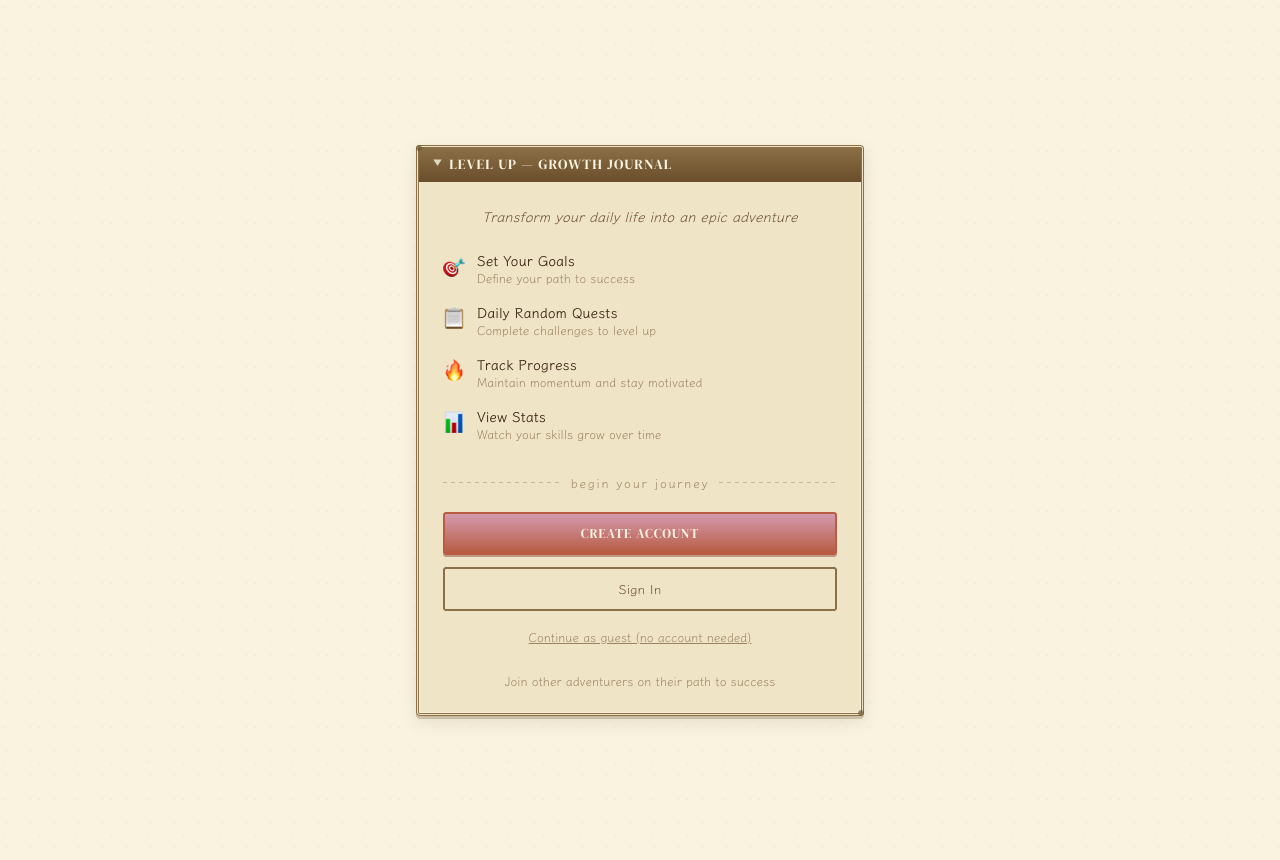
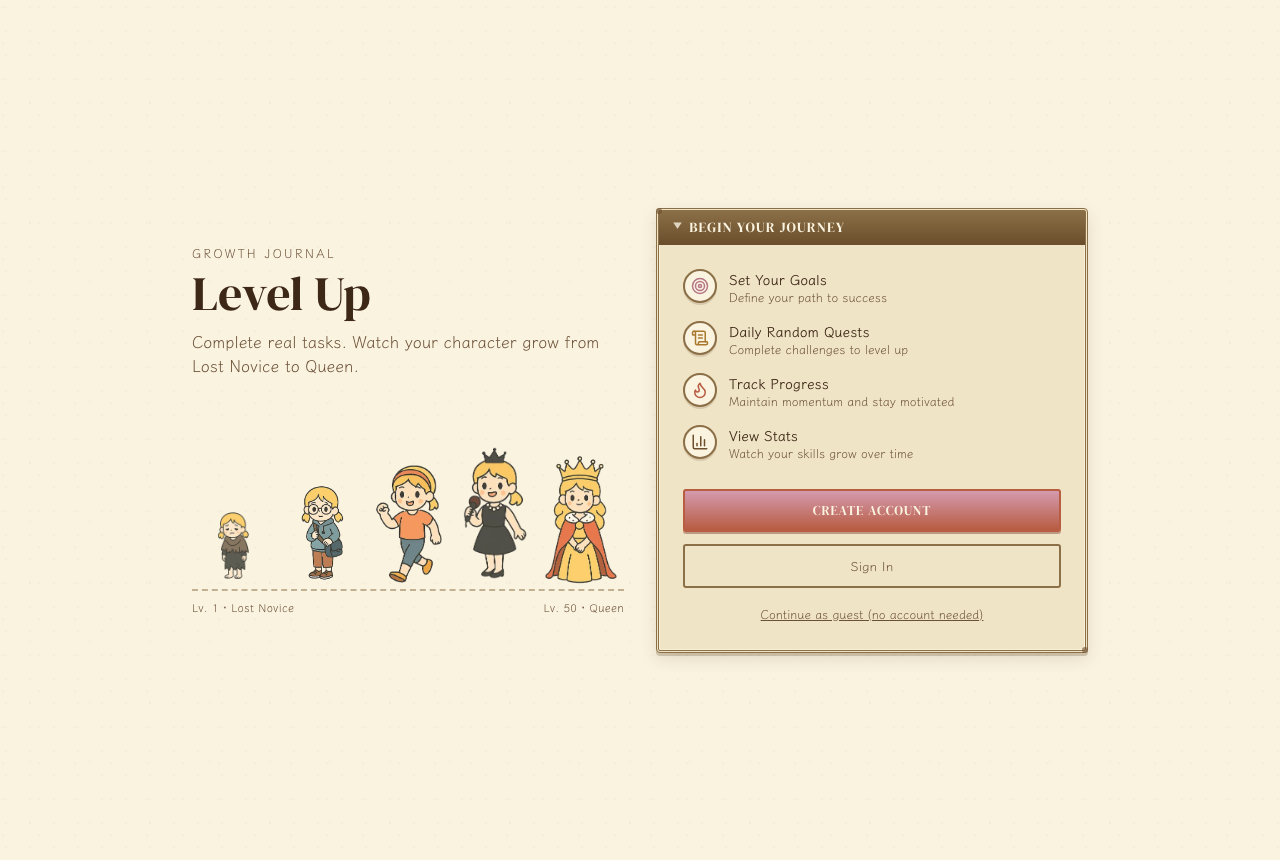
feat: show the character's growth on the welcome page (#15)
The welcome page was a small card of emoji and feature bullets on an empty
background, and gave a visitor no sense of the game before signing up. It
now leads with the five avatar stages side by side, from Lost Novice to
Queen: the character growing as real tasks get done is the premise of the
app, so it is the first thing a visitor sees.

- Two columns from md up; stacked on phones.
- Emoji are replaced with lucide icons in a parchment seal. The seal's ring
  uses --frame, because the accent colours fall under 3:1 against the card.
- The figures load small WebP copies, about 70 KB for all five, instead of
  the PNGs at 370-610 KB each.
- The progression is a figure labelled by its caption. Screen readers hear
  one sentence; the corner labels are hidden from them rather than read
  twice.
- "Join other adventurers on their path to success" is removed. It implied
  a user base the app does not have.
- The sign-in view's title is now its h1.

The README's welcome page screenshots are updated to match.

diff --git a/frontend/src/pages/WelcomePage.jsx b/frontend/src/pages/WelcomePage.jsx
@@ -1,5 +1,62 @@
-import { useState } from 'react';
+import { useId, useState } from 'react';
+import { ChartColumn, Flame, ScrollText, Target } from 'lucide-react';
 import { apiRequest, API_ENDPOINTS } from '../config/api.js';
+import { getAvatarThumbSrc, getAvatarTitle } from '../utils/avatar';
+
+// One level from each avatar stage, lowest first.
+const STAGE_LEVELS = [1, 5, 10, 30, 50];
+const FIRST_LEVEL = STAGE_LEVELS[0];
+const LAST_LEVEL = STAGE_LEVELS[STAGE_LEVELS.length - 1];
+const FIRST_TITLE = getAvatarTitle(FIRST_LEVEL);
+const LAST_TITLE = getAvatarTitle(LAST_LEVEL);
+const STAGGER_MS = 90;
+// Each stage stands a little taller than the last. Larger from md up, where the
+// progression has a whole column to itself.
+const FIGURE_HEIGHTS = [
+  'h-14 md:h-20',
+  'h-[4.5rem] md:h-[6.5rem]',
+  'h-[5.5rem] md:h-32',
+  'h-[6.5rem] md:h-[9.5rem]',
+  'h-[7.5rem] md:h-44',
+];
+
+const FEATURES = [
+  { Icon: Target, colour: 'var(--accent-rose-deep)', title: 'Set Your Goals', desc: 'Define your path to success' },
+  { Icon: ScrollText, colour: 'var(--accent-gold-deep)', title: 'Daily Random Quests', desc: 'Complete challenges to level up' },
+  { Icon: Flame, colour: 'var(--accent-rust)', title: 'Track Progress', desc: 'Maintain momentum and stay motivated' },
+  { Icon: ChartColumn, colour: 'var(--frame-deep)', title: 'View Stats', desc: 'Watch your skills grow over time' },
+];
+
+// The five avatar stages side by side. The character growing as tasks get done
+// is the whole premise of the app, so it is the first thing a visitor sees.
+function StageProgression() {
+  const captionId = useId();
+
+  return (
+    <figure aria-labelledby={captionId}>
+      <div className="flex items-end justify-between gap-1 px-1">
+        {STAGE_LEVELS.map((level, i) => (
+          <div key={level} className={`stagger-item w-[18%] ${FIGURE_HEIGHTS[i]}`} style={{ animationDelay: `${i * STAGGER_MS}ms` }}>
+            <img src={getAvatarThumbSrc(level)} alt="" className="h-full w-full object-contain object-bottom" />
+          </div>
+        ))}
+      </div>
+      <div className="mt-1" style={{ borderTop: '2px dashed var(--frame)', opacity: 0.5 }} />
+      {/* The caption names the figure. Browsers derive that from <figcaption> on
+          their own, but screen reader support for it is uneven, so
+          aria-labelledby says it outright. Screen readers get one whole
+          sentence; the two corner labels are the same facts laid out for the
+          eye, so they are hidden from them rather than read twice. */}
+      <figcaption id={captionId} className="mt-2 flex justify-between text-[11px] tracking-wide text-ink-soft">
+        <span className="sr-only">
+          {`Your character grows through five stages, from ${FIRST_TITLE} at level ${FIRST_LEVEL} to ${LAST_TITLE} at level ${LAST_LEVEL}.`}
+        </span>
+        <span aria-hidden="true">Lv. {FIRST_LEVEL} · {FIRST_TITLE}</span>
+        <span aria-hidden="true">Lv. {LAST_LEVEL} · {LAST_TITLE}</span>
+      </figcaption>
+    </figure>
+  );
+}
 
 export default function WelcomePage({ onLoginSuccess, onNavigateToRegister }) {
   const [isLoginMode, setIsLoginMode] = useState(false);
@@ -71,64 +128,62 @@ export default function WelcomePage({ onLoginSuccess, onNavigateToRegister }) {
     setIsLoginMode(loginMode);
   };
 
-  const FEATURES = [
-    { icon: '🎯', title: 'Set Your Goals', desc: 'Define your path to success' },
-    { icon: '📋', title: 'Daily Random Quests', desc: 'Complete challenges to level up' },
-    { icon: '🔥', title: 'Track Progress', desc: 'Maintain momentum and stay motivated' },
-    { icon: '📊', title: 'View Stats', desc: 'Watch your skills grow over time' },
-  ];
-
   if (!isLoginMode) {
     return (
-      <div className="paper-bg min-h-screen flex items-center justify-center p-4">
-        <div className="rpg-window max-w-md w-full page-enter">
-          <div className="rpg-header text-base">Level Up — Growth Journal</div>
-          <div className="px-6 py-6">
-            <p className="text-ink-soft text-sm mb-6 text-center italic">
-              Transform your daily life into an epic adventure
+      <div className="paper-bg min-h-screen flex items-center justify-center p-4 sm:p-8">
+        <div className="page-enter w-full max-w-4xl grid gap-8 md:grid-cols-2 md:items-center">
+          <section className="text-center md:text-left">
+            <p className="text-xs uppercase tracking-[0.2em] text-ink-soft">Growth Journal</p>
+            <h1 className="font-display text-4xl sm:text-5xl text-ink mt-2">Level Up</h1>
+            <p className="text-ink-soft mt-3">
+              Complete real tasks. Watch your character grow from {FIRST_TITLE} to {LAST_TITLE}.
             </p>
-
-            <div className="space-y-4 mb-8">
-              {FEATURES.map(f => (
-                <div key={f.title} className="flex items-start gap-3">
-                  <span className="text-xl mt-0.5">{f.icon}</span>
-                  <div>
-                    <h3 className="font-semibold text-ink text-sm">{f.title}</h3>
-                    <p className="text-xs text-ink-mute">{f.desc}</p>
-                  </div>
-                </div>
-              ))}
+            <div className="mt-8 max-w-sm mx-auto md:mx-0 md:max-w-none">
+              <StageProgression />
             </div>
+          </section>
 
-            <div className="paper-divider mb-5"><span>begin your journey</span></div>
+          <div className="rpg-window w-full max-w-md mx-auto">
+            <div className="rpg-header">Begin your journey</div>
+            <div className="px-6 py-6">
+              <ul className="space-y-4 mb-7">
+                {FEATURES.map(({ Icon, colour, title, desc }) => (
+                  <li key={title} className="flex items-start gap-3">
+                    <span className="feature-seal" style={{ color: colour }} aria-hidden="true">
+                      <Icon size={18} strokeWidth={2} />
+                    </span>
+                    <div>
+                      <h2 className="font-semibold text-ink text-sm">{title}</h2>
+                      <p className="text-xs text-ink-soft">{desc}</p>
+                    </div>
+                  </li>
+                ))}
+              </ul>
 
-            {errorBox}
+              {errorBox}
 
-            <div className="space-y-3">
-              <button
-                onClick={onNavigateToRegister}
-                className="rpg-btn-primary w-full"
-              >
-                Create Account
-              </button>
-              <button
-                onClick={() => switchMode(true)}
-                className="rpg-btn-secondary w-full"
-              >
-                Sign In
-              </button>
-              <button
-                onClick={handleGuest}
-                disabled={loading}
-                className="w-full text-xs text-ink-mute hover:text-ink underline transition-colors py-1"
-              >
-                {loading ? 'Starting guest session…' : 'Continue as guest (no account needed)'}
-              </button>
+              <div className="space-y-3">
+                <button
+                  onClick={onNavigateToRegister}
+                  className="rpg-btn-primary w-full"
+                >
+                  Create Account
+                </button>
+                <button
+                  onClick={() => switchMode(true)}
+                  className="rpg-btn-secondary w-full"
+                >
+                  Sign In
+                </button>
+                <button
+                  onClick={handleGuest}
+                  disabled={loading}
+                  className="w-full text-xs text-ink-soft hover:text-ink underline transition-colors py-1"
+                >
+                  {loading ? 'Starting guest session…' : 'Continue as guest (no account needed)'}
+                </button>
+              </div>
             </div>
-
-            <p className="text-xs text-ink-mute text-center mt-6">
-              Join other adventurers on their path to success
-            </p>
           </div>
         </div>
       </div>
@@ -138,7 +193,7 @@ export default function WelcomePage({ onLoginSuccess, onNavigateToRegister }) {
   return (
     <div className="paper-bg min-h-screen flex items-center justify-center p-4">
       <div className="rpg-window max-w-sm w-full page-enter">
-        <div className="rpg-header">Welcome Back</div>
+        <h1 className="rpg-header">Welcome Back</h1>
         <div className="px-6 py-6">
           {errorBox}
 

diff --git a/frontend/src/pages/__tests__/WelcomePage.test.jsx b/frontend/src/pages/__tests__/WelcomePage.test.jsx
@@ -24,6 +24,24 @@ const signInWith = (username, password) => {
 describe('WelcomePage', () => {
   beforeEach(() => apiRequest.mockReset());
 
+  it('shows the character growing through every avatar stage', () => {
+    renderPage();
+    // Asserted as the exact string: an earlier version split this sentence
+    // across spans and the spaces at their edges were dropped ("NovicetoLv").
+    const progression = screen.getByRole('figure', {
+      name: 'Your character grows through five stages, from Lost Novice at level 1 to Queen at level 50.',
+    });
+    const figures = [...progression.querySelectorAll('img')].map((img) => img.getAttribute('src'));
+    expect(figures).toEqual([1, 2, 3, 4, 5].map((stage) => `/avatars/avatar_stage_${stage}_small.webp`));
+  });
+
+  it('gives both views a top-level heading', () => {
+    renderPage();
+    expect(screen.getByRole('heading', { level: 1, name: 'Level Up' })).toBeInTheDocument();
+    fireEvent.click(screen.getByRole('button', { name: 'Sign In' }));
+    expect(screen.getByRole('heading', { level: 1, name: 'Welcome Back' })).toBeInTheDocument();
+  });
+
   it('sends a new player to registration', () => {
     const { onNavigateToRegister } = renderPage();
     fireEvent.click(screen.getByRole('button', { name: 'Create Account' }));

diff --git a/frontend/src/utils/__tests__/avatar.test.js b/frontend/src/utils/__tests__/avatar.test.js
@@ -2,7 +2,7 @@ import { describe, it, expect } from 'vitest';
 import { existsSync } from 'node:fs';
 import { dirname, resolve } from 'node:path';
 import { fileURLToPath } from 'node:url';
-import { getAvatarStage, getAvatarSrc, getAvatarTitle, getExpForLevel } from '../avatar';
+import { getAvatarStage, getAvatarSrc, getAvatarThumbSrc, getAvatarTitle, getExpForLevel } from '../avatar';
 
 describe('getAvatarStage', () => {
   // Each pair sits either side of a threshold, so moving a boundary by one
@@ -25,6 +25,12 @@ describe('getAvatarSrc', () => {
     const src = getAvatarSrc(level);
     // A renamed or missing file would otherwise surface only as a broken image.
     expect(existsSync(resolve(publicDir, src.slice(1)))).toBe(true);
+  });
+});
+
+describe('getAvatarThumbSrc', () => {
+  it.each([1, 5, 10, 30, 50])('points at a small copy that exists for level %i', (level) => {
+    expect(existsSync(resolve(publicDir, getAvatarThumbSrc(level).slice(1)))).toBe(true);
   });
 });
 

diff --git a/frontend/src/index.css b/frontend/src/index.css
@@ -182,6 +182,22 @@ body {
   animation: pageFadeIn 320ms ease-out;
 }
 
+/* Round seal behind a feature icon. The ring is --frame rather than the icon's
+   own colour: rose-deep and gold-deep fall under 3:1 against the card, while
+   the paper fill keeps every icon colour above it. */
+.feature-seal {
+  flex-shrink: 0;
+  width: 34px;
+  height: 34px;
+  display: inline-flex;
+  align-items: center;
+  justify-content: center;
+  border-radius: 50%;
+  background: var(--paper);
+  border: 2px solid var(--frame);
+  box-shadow: 0 2px 0 rgba(107, 79, 44, 0.18);
+}
+
 /* ========================================================================
    Display heading helpers
    ======================================================================== */

diff --git a/frontend/src/utils/avatar.js b/frontend/src/utils/avatar.js
@@ -12,6 +12,11 @@ export const getAvatarSrc = (level) => {
   return `/avatars/avatar_stage_${stage}.png`;
 };
 
+// Small WebP copies — about 13 KB each against roughly 400 KB for the PNGs —
+// for places that show several stages at once, such as the welcome page.
+export const getAvatarThumbSrc = (level) =>
+  `/avatars/avatar_stage_${getAvatarStage(level)}_small.webp`;
+
 export const getAvatarTitle = (level) => {
   const stage = getAvatarStage(level);
   const titles = {
